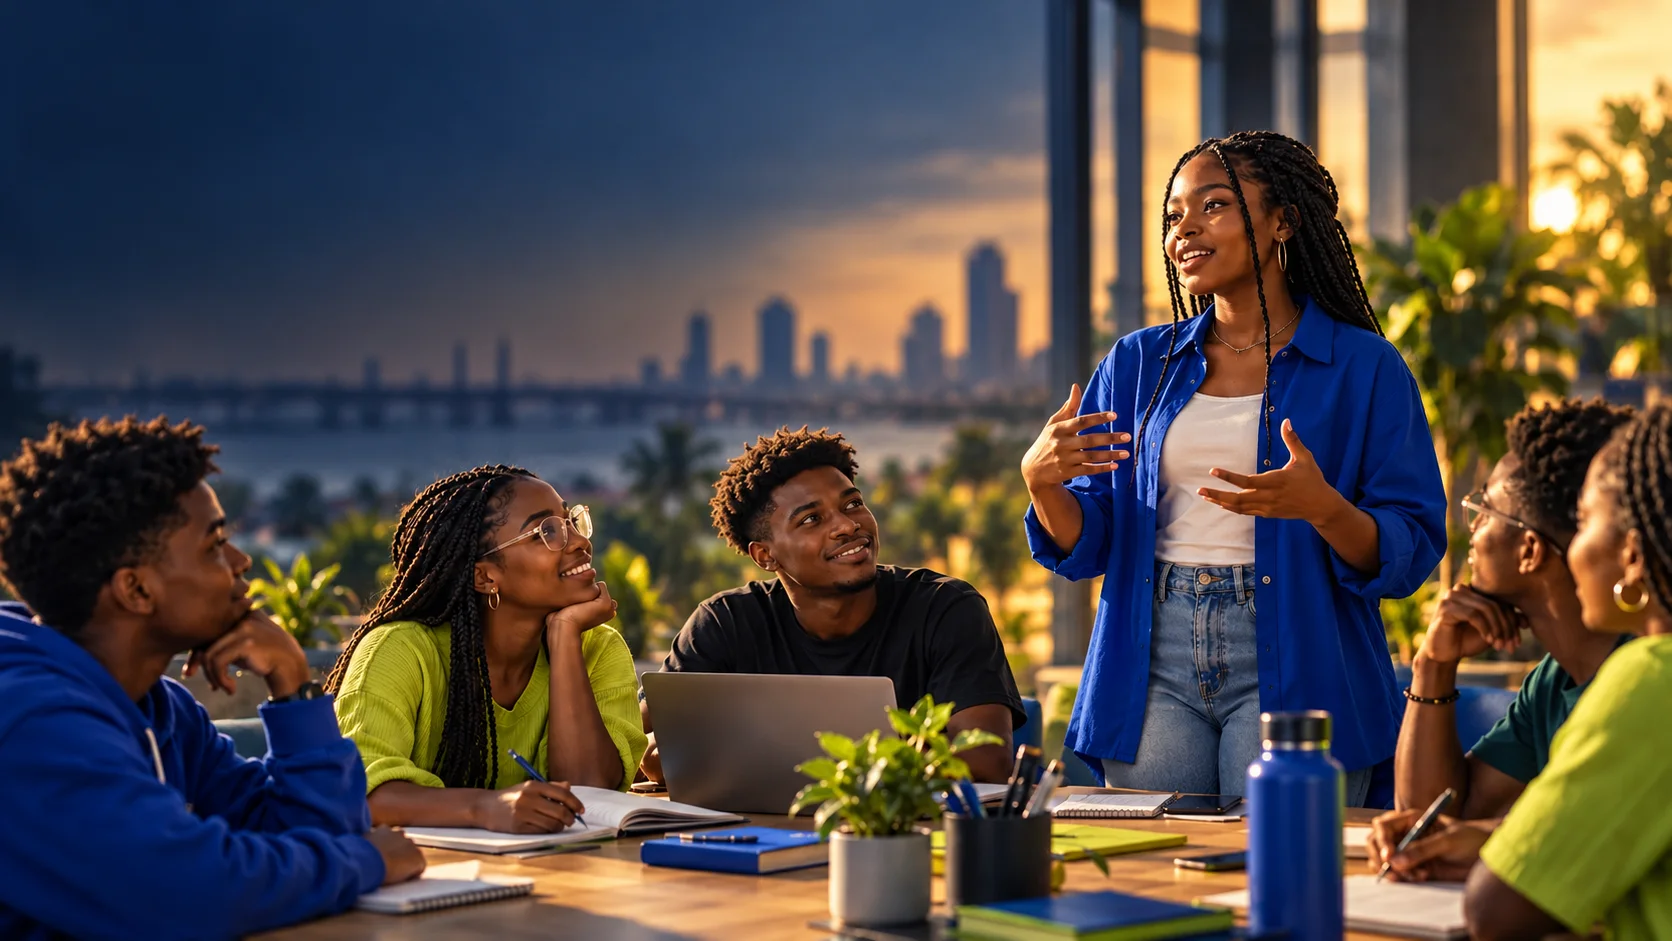
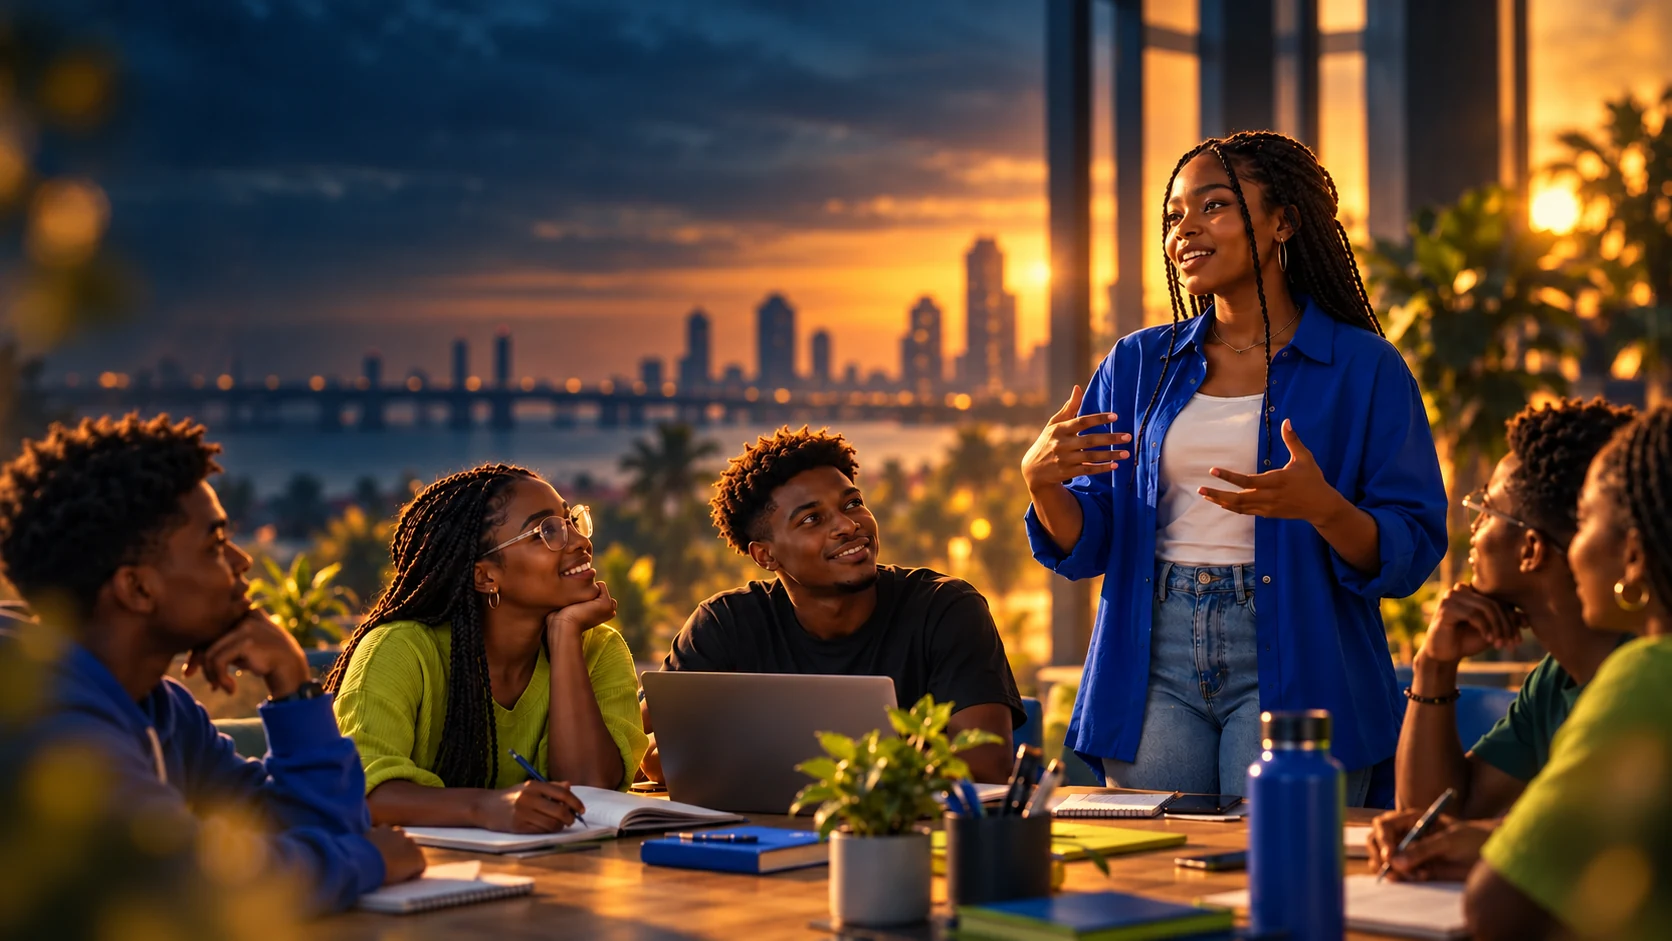
Use cinematic edit of hero photograph

diff --git a/app/globals.css b/app/globals.css
@@ -80,12 +80,9 @@ img { display: block; }
 .topbar-cta:hover { box-shadow: inset 0 0 18px rgba(255,255,255,.3), inset 0 1px 0 rgba(255,255,255,.48), 0 12px 30px rgba(34,219,121,.3); }
 
 .new-hero { position: relative; display: flex; min-height: 900px; align-items: center; justify-content: center; overflow: hidden; padding: 150px 5vw 175px; color: var(--white); background: var(--ink); isolation: isolate; }
-.hero-photo { z-index: -3; object-fit: cover; object-position: center 48%; filter: saturate(.75) contrast(1.12) brightness(.84); transition: transform 1.2s cubic-bezier(.2,.7,.2,1); }
+.hero-photo { z-index: -3; object-fit: cover; object-position: center 48%; transition: transform 1.2s cubic-bezier(.2,.7,.2,1); }
 .new-hero:hover .hero-photo { transform: scale(1.025); }
-.hero-scrim { position: absolute; z-index: -2; inset: 0; overflow: hidden; background: radial-gradient(ellipse 72% 58% at 50% 38%, rgba(5,9,18,.47), rgba(5,9,18,.27) 55%, rgba(5,9,18,.69)), linear-gradient(to bottom, rgba(5,9,18,.42), rgba(5,9,18,.1) 43%, rgba(5,9,18,.94) 100%); }
-.hero-scrim::before, .hero-scrim::after { position: absolute; inset: -12%; content: ""; pointer-events: none; }
-.hero-scrim::before { background: radial-gradient(ellipse 49% 43% at 7% 50%, rgba(91,207,212,.55), transparent 76%), radial-gradient(ellipse 40% 47% at 97% 25%, rgba(134,196,173,.37), transparent 79%), radial-gradient(ellipse 49% 39% at 67% 81%, rgba(203,107,72,.25), transparent 80%); filter: blur(38px); mix-blend-mode: screen; }
-.hero-scrim::after { background: radial-gradient(ellipse 38% 76% at -7% 58%, rgba(1,24,31,.75), transparent 83%), radial-gradient(ellipse 35% 78% at 109% 51%, rgba(1,23,27,.7), transparent 82%); filter: blur(28px); backdrop-filter: blur(12px); mask-image: linear-gradient(to right, #000, transparent 26%, transparent 74%, #000); }
+.hero-scrim { position: absolute; z-index: -2; inset: 0; background: radial-gradient(ellipse 74% 55% at 50% 38%, rgba(3,10,20,.42), rgba(3,10,20,.2) 62%, rgba(3,10,20,.46)), linear-gradient(to bottom, rgba(3,10,20,.24), rgba(3,10,20,.12) 43%, rgba(3,10,20,.9) 100%); }
 .hero-content { width: min(1240px, 100%); margin: 0 auto; text-align: center; }
 .hero-kicker, .section-kicker { margin: 0 0 22px; color: var(--accent-green); font-size: .73rem; font-weight: 700; letter-spacing: .18em; text-transform: uppercase; }
 .edition-badge { position: relative; display: inline-flex; min-height: 31px; align-items: center; justify-content: center; gap: 7px; margin: 0 0 25px; padding: 3px 11px 3px 4px; overflow: hidden; isolation: isolate; color: #fff; border: 1px solid rgba(255,255,255,.4); border-radius: 999px; background: linear-gradient(135deg, rgba(255,255,255,.24), rgba(255,255,255,.11) 48%, rgba(255,255,255,.18)); box-shadow: inset 0 1px 0 rgba(255,255,255,.5), 0 6px 22px rgba(2,8,24,.2); backdrop-filter: blur(30px) saturate(150%); font-size: .69rem; font-weight: 650; letter-spacing: .01em; }
